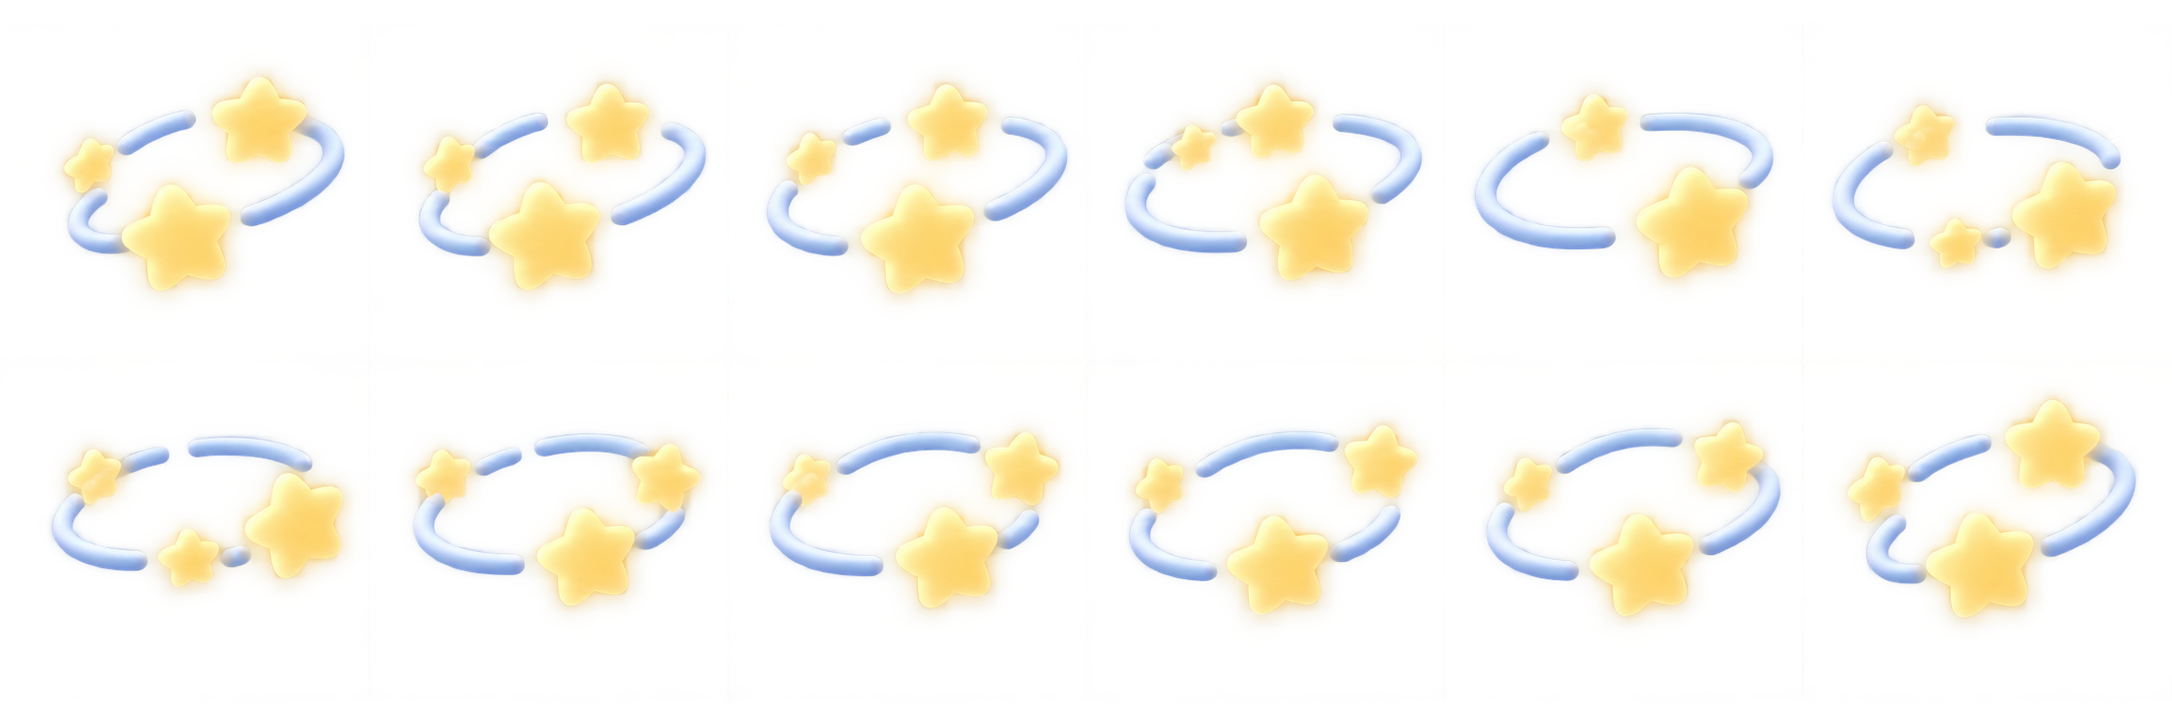
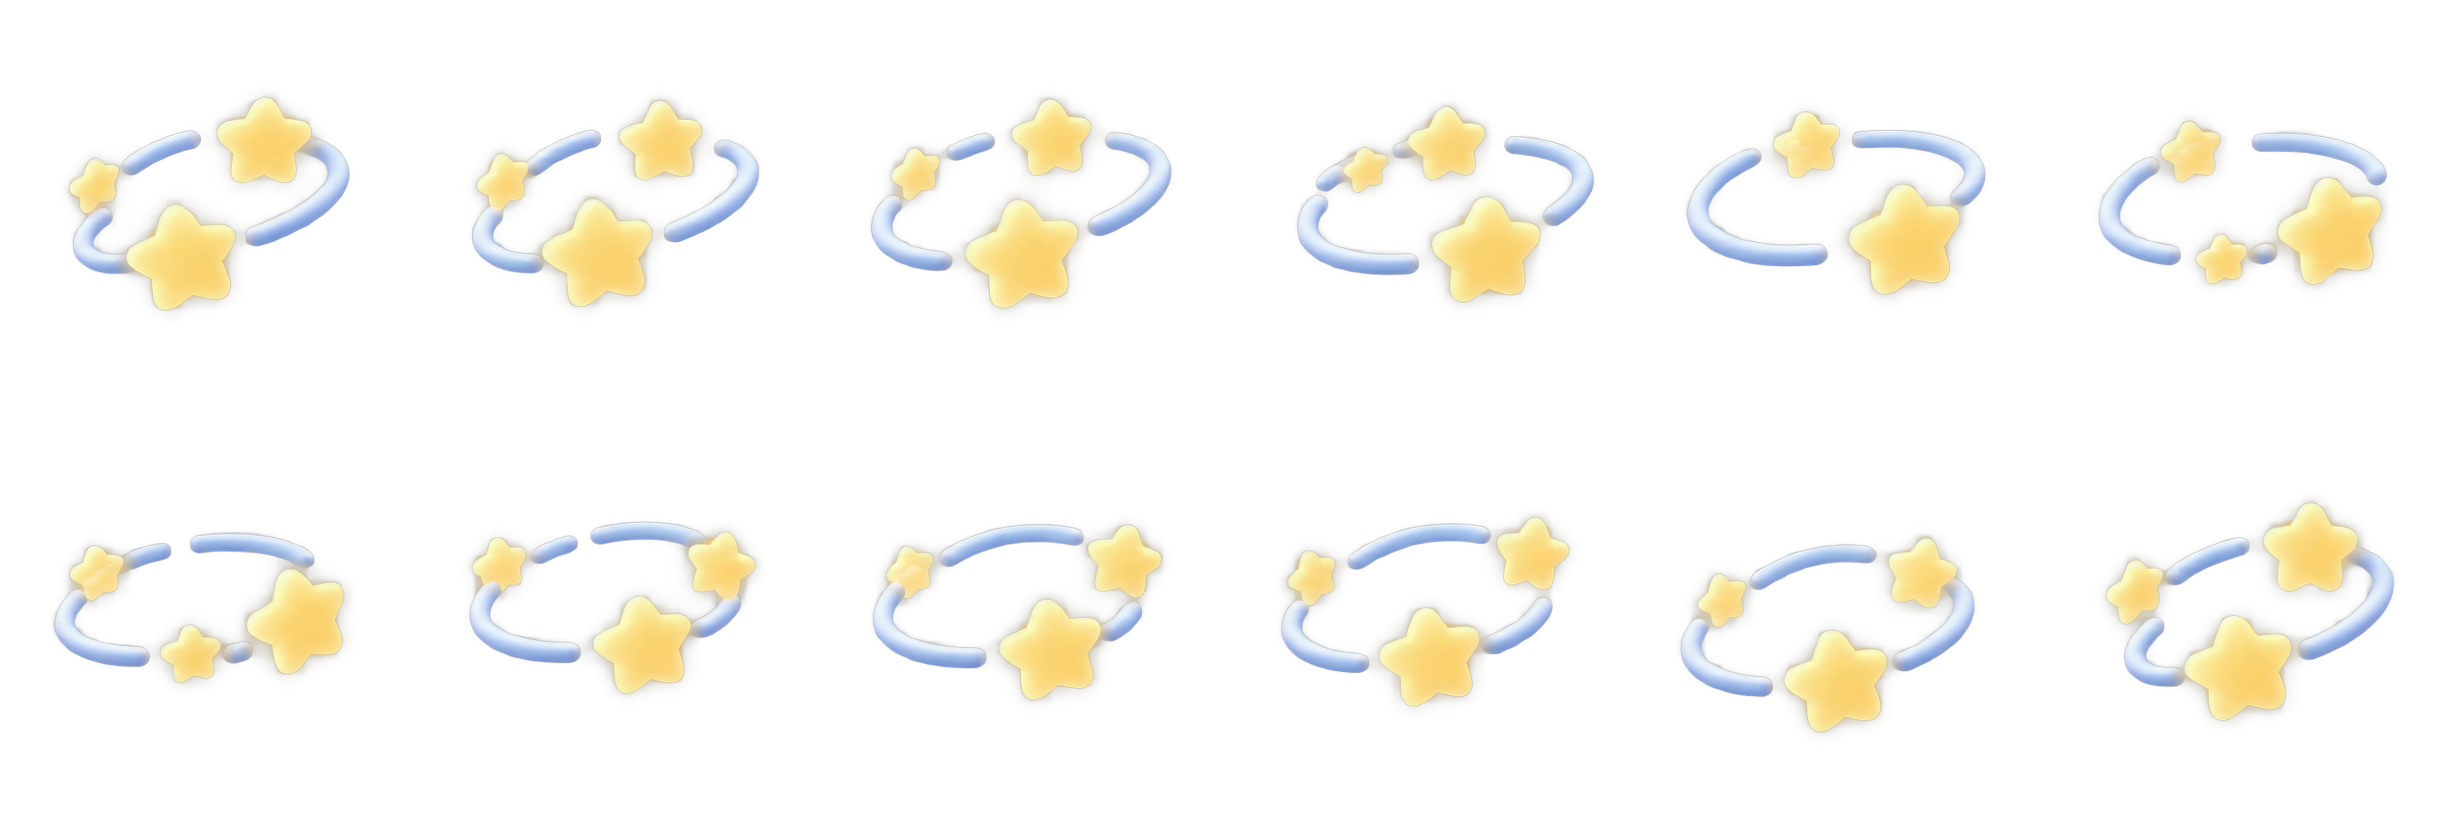
feat(ui): align dizzy stars sprite frames
- Center-align all 12 frames of the dizzy stars sprite atlas to eliminate vertical jumping during rotation
- Repack dizzy stars sprite into 408x408 aligned cells and update MobiDizzyStarsSpriteCache

diff --git a/core/core-ui/src/main/java/com/monsters/mobimon/core/ui/MobiWarningAnimation.kt b/core/core-ui/src/main/java/com/monsters/mobimon/core/ui/MobiWarningAnimation.kt
@@ -58,7 +58,7 @@ internal object MobiDizzyStarsTimeline {
     const val COLUMNS = 6
     const val ROWS = 2
     const val FRAME_COUNT = COLUMNS * ROWS
-    const val CYCLE_MS = 2_000L
+    const val CYCLE_MS = 1_538L
 
     fun frameAt(elapsedNanos: Long): Int {
         val cycleNanos = CYCLE_MS * 1_000_000L
@@ -113,7 +113,7 @@ internal object MobiCollapsedSpriteCache {
 }
 
 internal object MobiDizzyStarsSpriteCache {
-    const val CELL = 362
+    const val CELL = 408
     const val ASSET_PATH = "characters/mobi/unhealthy/mobi_dizzy_stars_sprite.png"
 
     @Volatile private var cached: ImageBitmap? = null
@@ -216,8 +216,8 @@ fun MobiIdleBreathAnimation(
                         .requiredSize(starsExtent)
                         .graphicsLayer {
                             alpha = blend.opacity.value
-                            translationX = size.width * 0.08f
-                            translationY = -size.height * 0.18f
+                            translationX = size.width * 0.05f
+                            translationY = -size.height * 0.25f
                             compositingStrategy = CompositingStrategy.Offscreen
                             clip = false
                         }

diff --git a/core/core-ui/src/test/java/com/monsters/mobimon/core/ui/MobiWarningAnimationTest.kt b/core/core-ui/src/test/java/com/monsters/mobimon/core/ui/MobiWarningAnimationTest.kt
@@ -35,7 +35,7 @@ class MobiWarningAnimationTest {
     }
 
     @Test
-    fun dizzyStarsTimelineCyclesThrough12FramesOverTwoSeconds() {
+    fun dizzyStarsTimelineCyclesThrough12Frames() {
         val cycleNanos = MobiDizzyStarsTimeline.CYCLE_MS * 1_000_000L
         assertEquals(0, MobiDizzyStarsTimeline.frameAt(0L))
         assertEquals(6, MobiDizzyStarsTimeline.frameAt(cycleNanos / 2))
